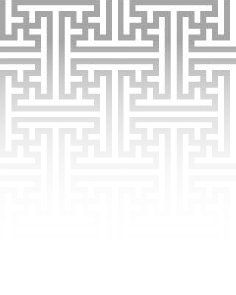
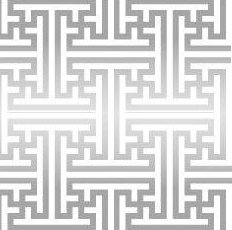
Fixed background image.

diff --git a/index.html b/index.html
@@ -6,7 +6,7 @@
     <title>Home</title>
 </head>
 
-<body background="img/background-mod.jpg" style="margin:0">
+<body background="img/background.jpg" style="margin:0">
 
 <div style="width:90%;margin-left:auto;margin-right:auto;">
   <!-- header div -->
